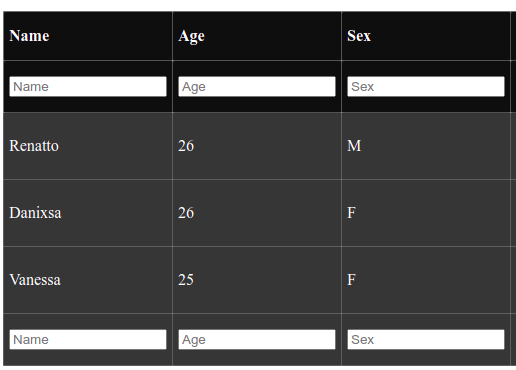
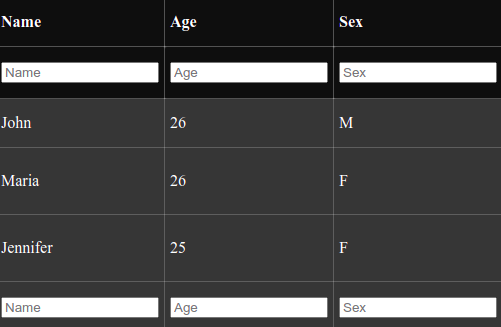
VFT - Update screenshot

diff --git a/dev/serve.vue b/dev/serve.vue
@@ -37,7 +37,7 @@ export default Vue.extend({
     ],
     rows: [
       {
-        name: "Renatto",
+        name: "John",
         age: 26,
         sex: "M",
         district: "La Perla",
@@ -48,7 +48,7 @@ export default Vue.extend({
         investor: "Yes",
       },
       {
-        name: "Danixsa",
+        name: "Maria",
         age: 26,
         sex: "F",
         district: "Chorrillos",
@@ -59,7 +59,7 @@ export default Vue.extend({
         investor: "No",
       },
       {
-        name: "Vanessa",
+        name: "Jennifer",
         age: 25,
         sex: "F",
         district: "San Isidro",
